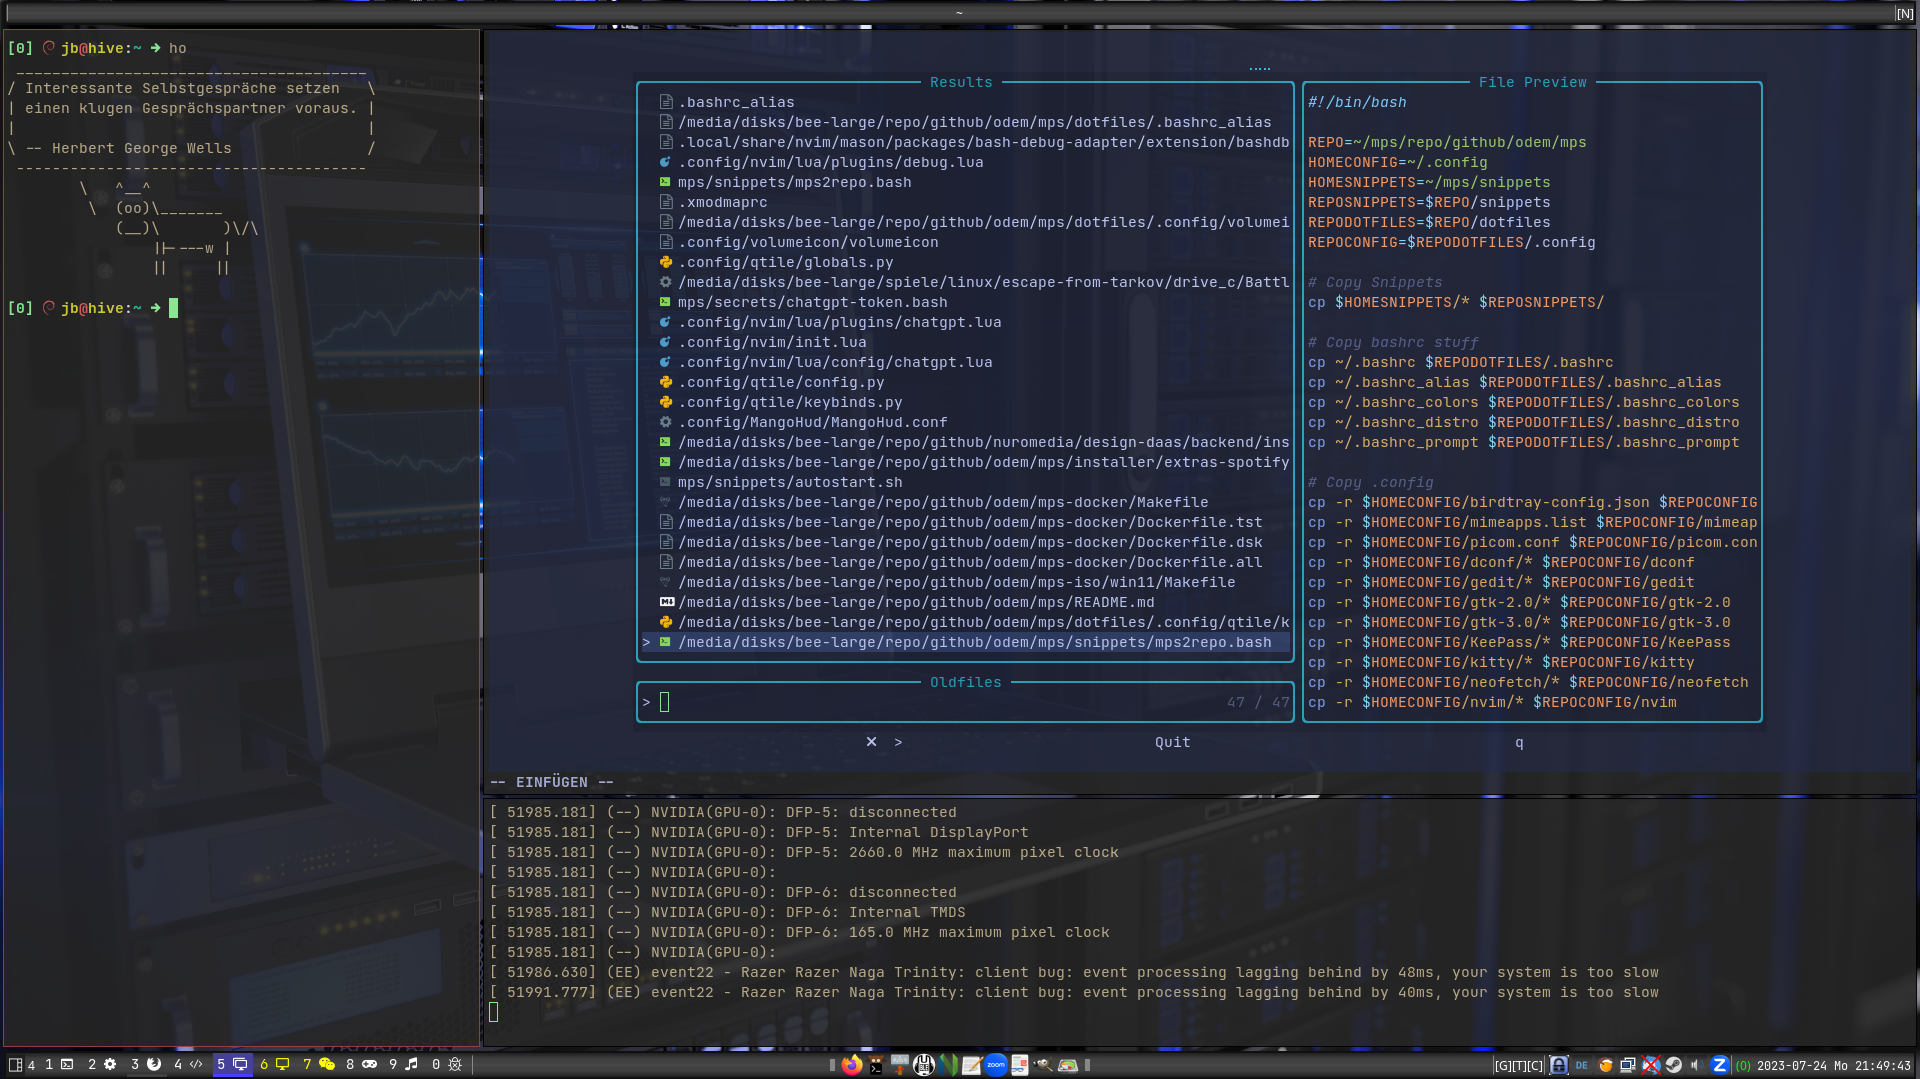
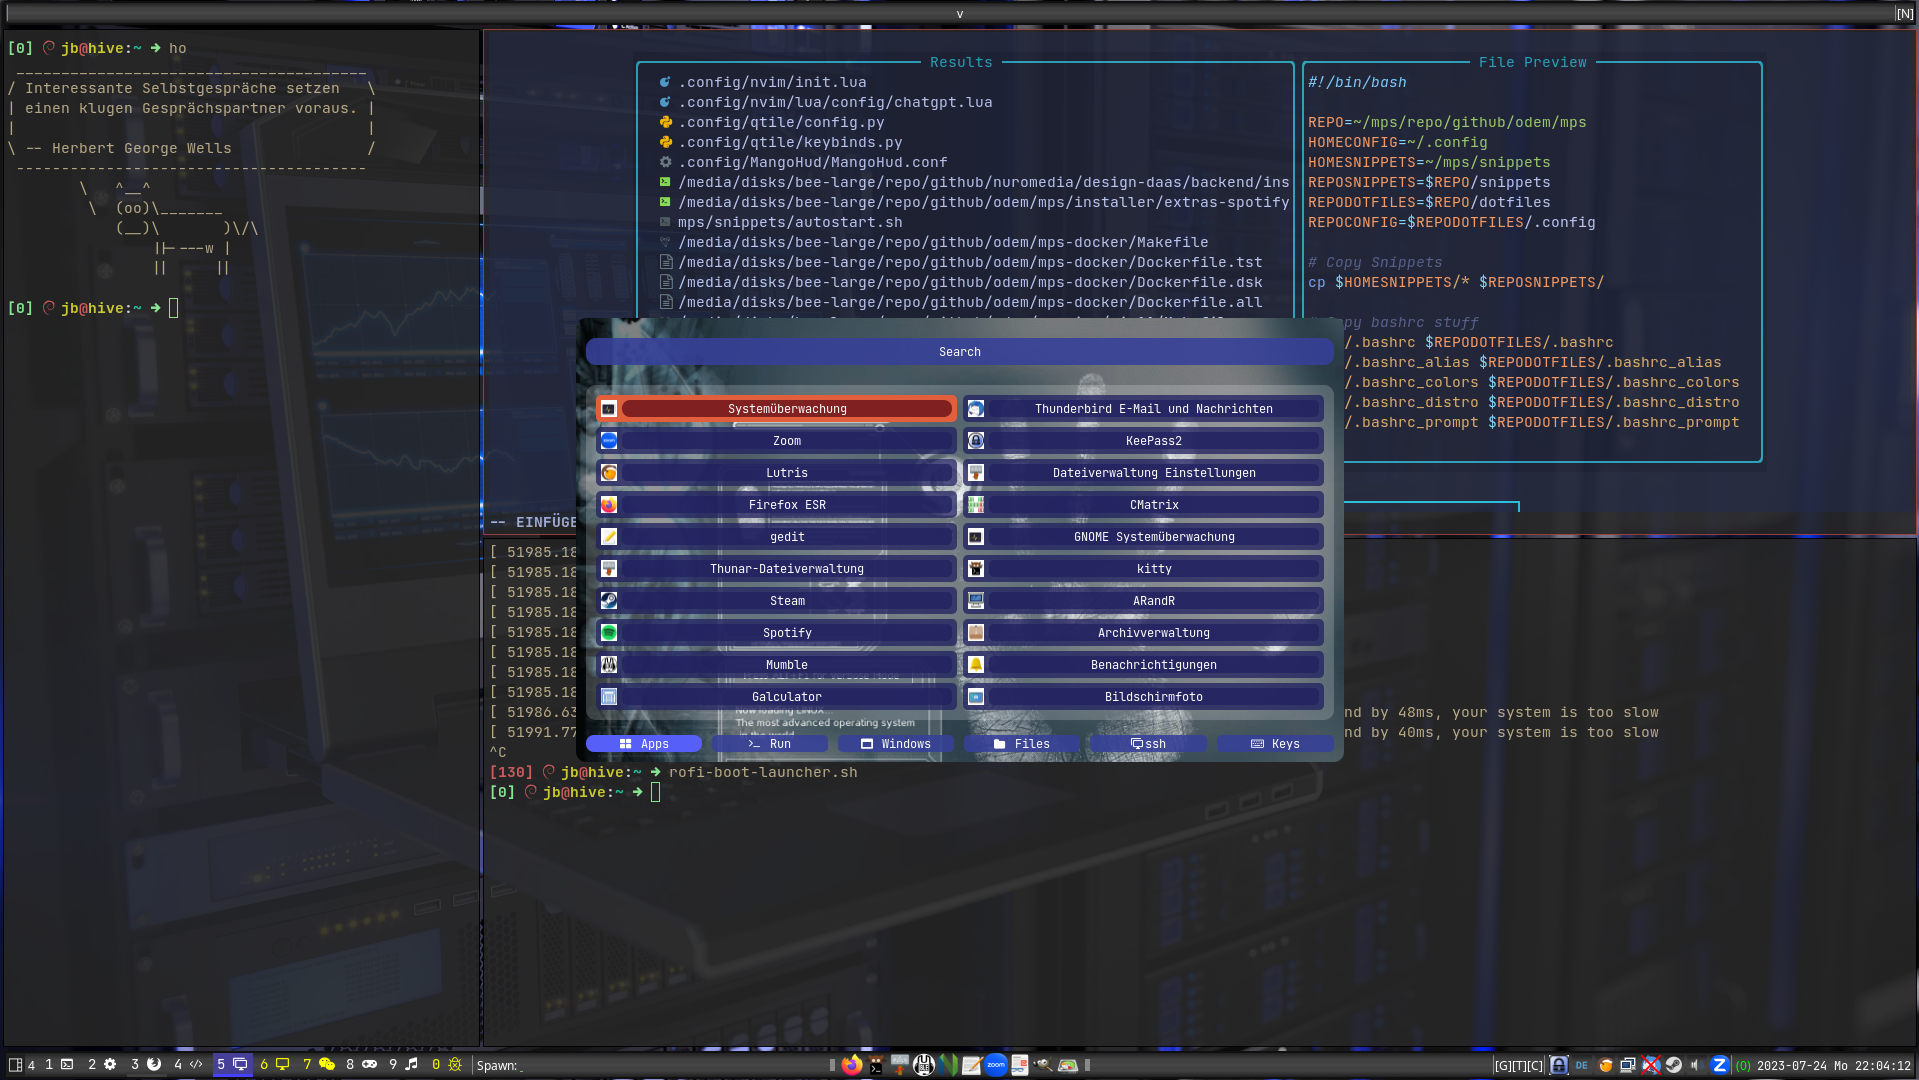
Exchange screenshots

diff --git a/README.md b/README.md
@@ -29,19 +29,19 @@ Example invocations:
 
 Some Screenshots:
 
-![Neovim](screenshots/nvim.png)
+![Neovim](screenshots/nvim.png) \
 Neovim with pre-installed Lsp support and various plugins
 
-![Debug](screenshots/debug.png)
+![Debug](screenshots/debug.png) \
 Neovim-based debugging environment and for various languages
 
-![Terminal](screenshots/kitty.png)
+![Terminal](screenshots/kitty.png) \
 Customized .bashrc, prompts, fonts, colorschemes, aliases and shortcuts
 
-![Desktop](screenshots/desktop.png)
-Riced desktop, with custom virtual desktops, bars and shortcuts
+![Desktop](screenshots/desktop.png) \
+Riced desktop, with custom virtual desktops, launchers, bars and shortcuts
 
-![Qtile](screenshots/qtile.png)
+![Qtile](screenshots/qtile.png) \
 Qtile as dynamic tiling window manager
 
 Some Files with Keybindings:
